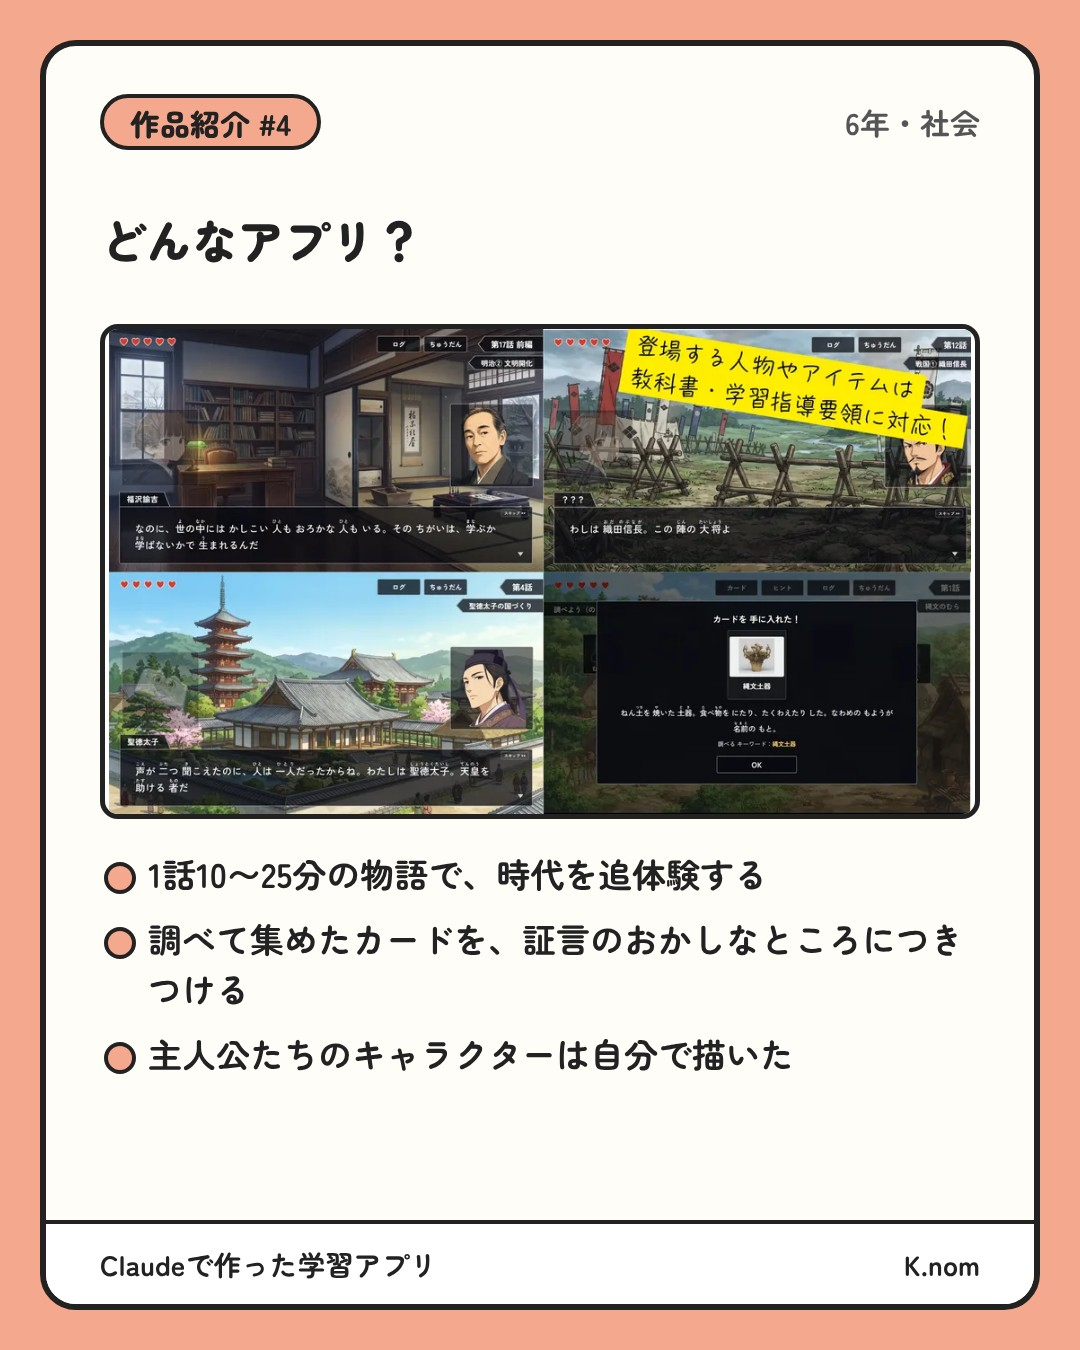
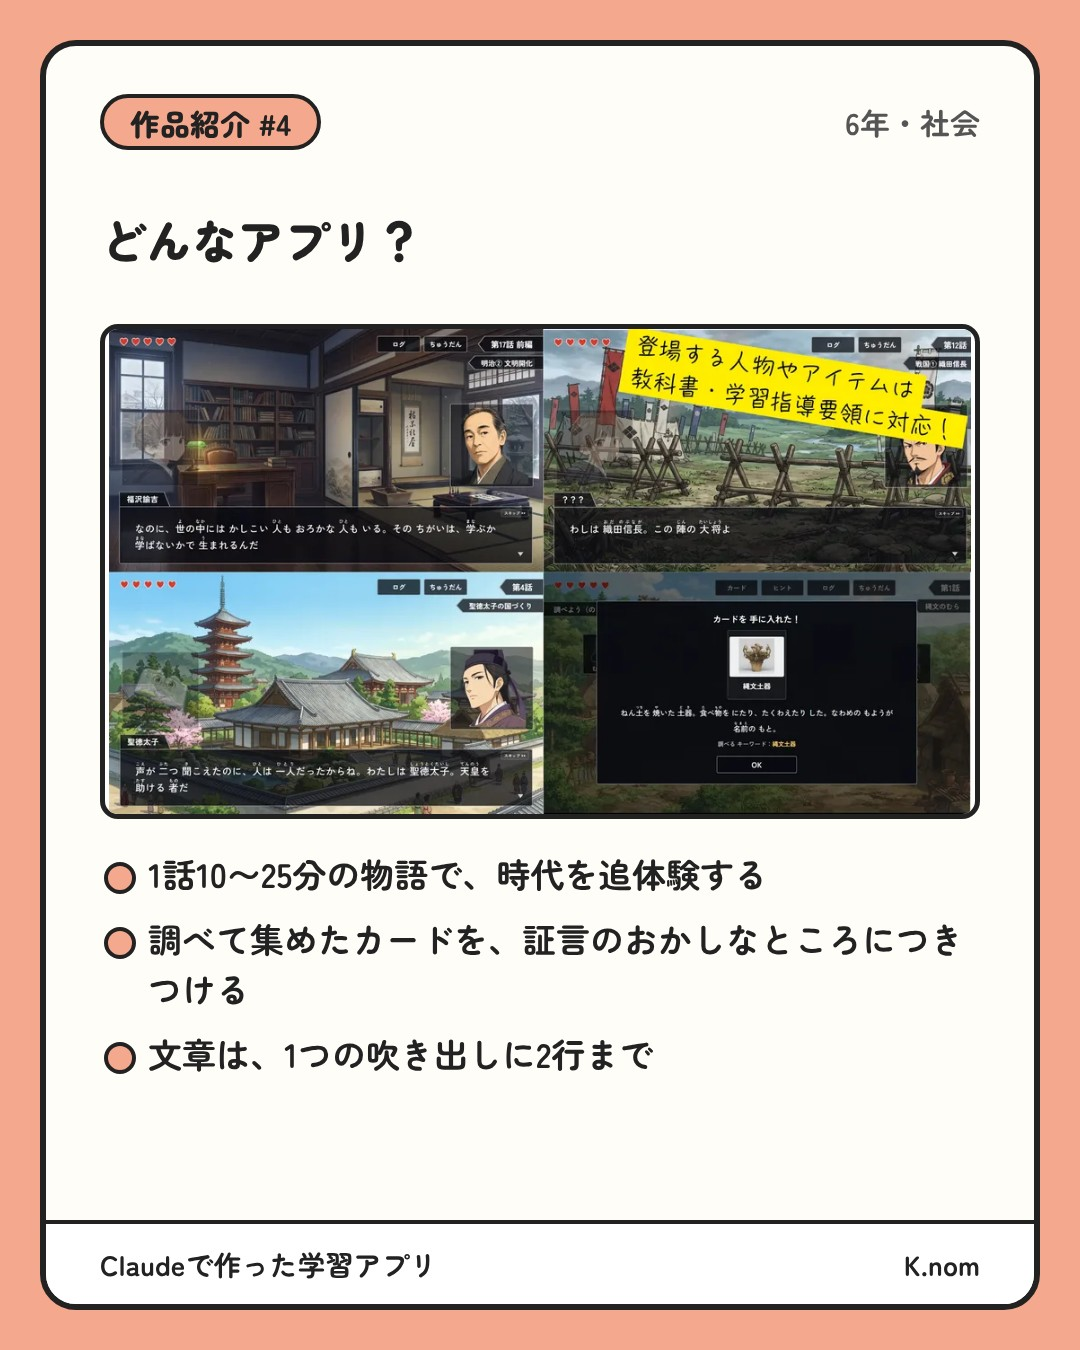
作品紹介：ヒストリア・ことばじてんの「自分で描いた」を削除
Claude-Session: https://claude.ai/code/session_01Bf9eT9RobW5VpffQmKz7hJ

Changed region(s): [[0.1222, 0.7467, 0.7333, 0.8089]]

diff --git a/src/2026-series/data.py b/src/2026-series/data.py
@@ -38,7 +38,7 @@ APPS = [
   instr=["子どもは4択に飽きているので、まったく新しいシステムにしたい。",
          "教科書の内容が「攻略本」になって、教科書を開きたくなる作品にしたい。",
          "文章を読むのが苦手な子が多いので、なるべく視覚的に。1つの吹き出しは2行まで。"],
-  feat=["1話10〜25分の物語で、時代を追体験する", "調べて集めたカードを、証言のおかしなところにつきつける", "主人公たちのキャラクターは自分で描いた"],
+  feat=["1話10〜25分の物語で、時代を追体験する", "調べて集めたカードを、証言のおかしなところにつきつける", "文章は、1つの吹き出しに2行まで"],
   use="6年の社会で、歴史の学習に使えます。教科書が「攻略本」になるように作っています。",
   x="Claudeと作った学習ゲーム紹介、4作目は「まなびヒストリア」（小6社会）。\n\nタイムスリップして、ゆがめられた歴史を正すゲームです。証言のおかしなところに「カード」をつきつけます。4択に飽きた子どもたちのために作りました。",
   xtag="#小学校"),
@@ -88,7 +88,7 @@ APPS = [
   instr=["子どもの作文のフレーズがワンパターンになるのを、支援したい。",
          "一覧ではなく、かんたんな言葉からえらんで開いていく形に。「いかにもAI」な見た目は避けて。",
          "解説は全学年で、漢字すべてにふりがな。言葉ごとに手で指定する（前のゲームでふりがなのミスがあったから）。"],
-  feat=["7つの気持ち・場面から言葉をさがす", "むずかしさを★1〜3から選べる", "キャラクターと言葉のイラストは自分で描いた"],
+  feat=["7つの気持ち・場面から言葉をさがす", "むずかしさを★1〜3から選べる", "解説の漢字には、すべてふりがな"],
   use="1〜6年の作文や日記で使えます。お気に入りに登録した言葉は、あとで見返せます。",
   x="Claudeと作った学習アプリ紹介、9作目は「きもちをあらわすことばじてん」（小1〜6）。\n\n作文の「うれしかったです」がワンパターンにならないように。7つの気持ちからえらんで、ぴったりの言葉を見つける辞典です。",
   xtag="#小学校"),
